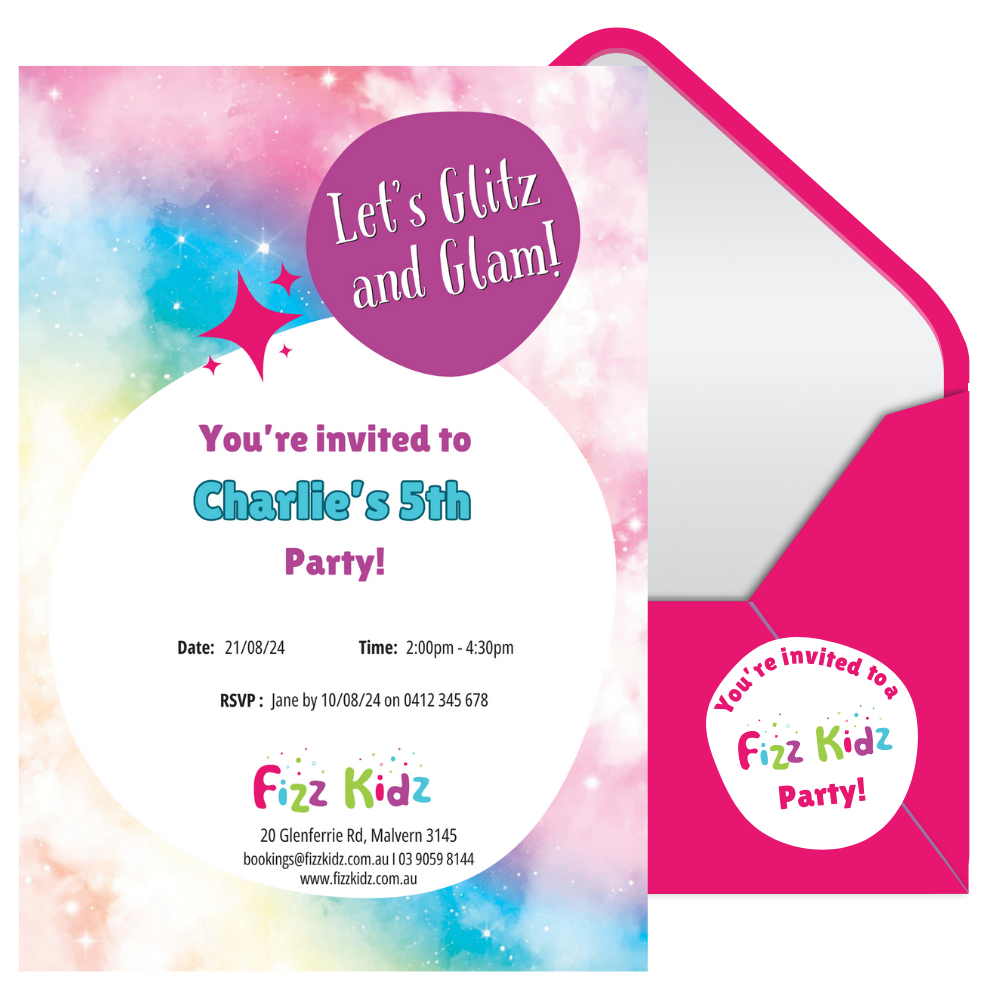
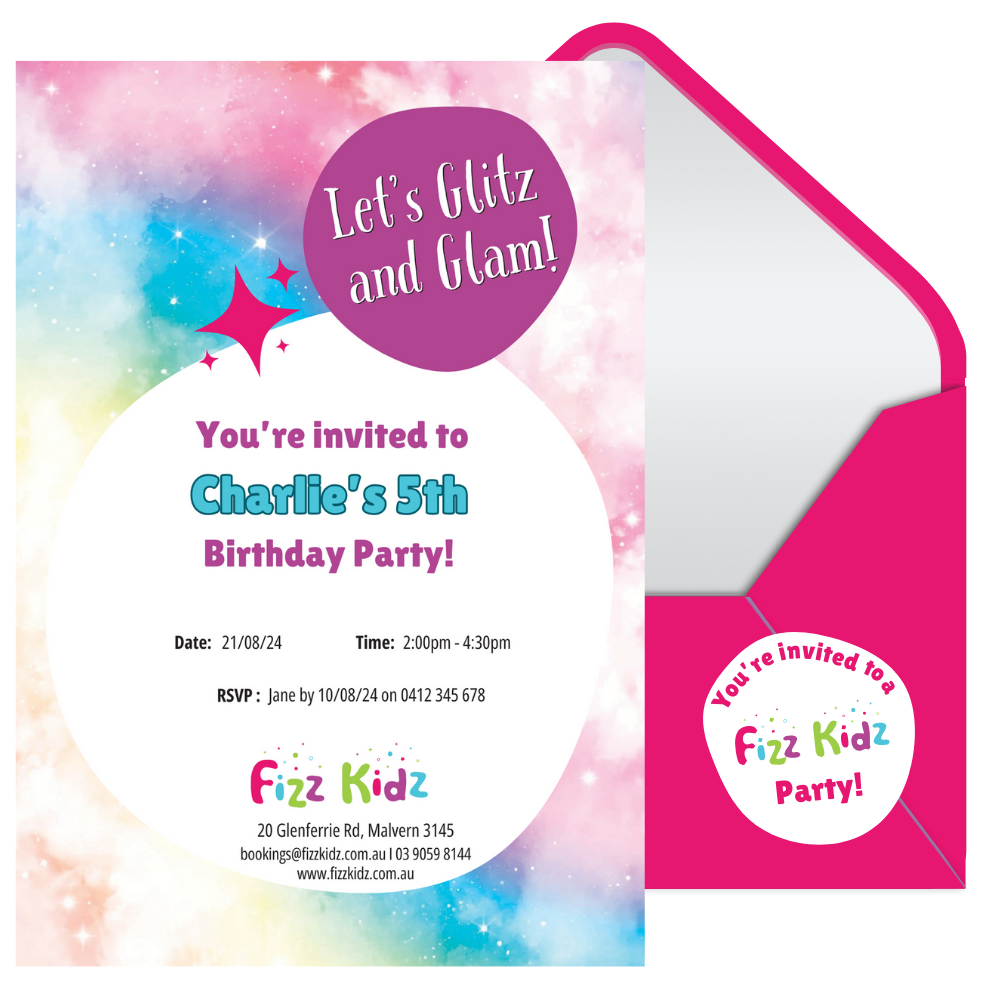
updated glitz invitation

diff --git a/server/src/party-bookings/invitations/freckles.html b/server/src/party-bookings/invitations/freckles.html
@@ -65,15 +65,15 @@
             font-size: 22px;
             position: absolute;
             top: 674px;
-            left: 400px;
+            left: 460px;
         }
 
         .rsvp {
             font-family: "Open Sans Condensed Light";
             position: absolute;
             font-size: 22px;
-            top: 740px;
-            left: 250px;
+            top: 743px;
+            left: 290px;
         }
 
         .address {
@@ -90,7 +90,7 @@
 
 <body>
     <div style="position: relative; width: 100%; height: 100%">
-        <img src="https://imgur.com/Kn21pk8.png" width="100%" height="100%"></img>
+        <img src="https://imgur.com/rB3WKHk.png" width="100%" height="100%"></img>
 
         <div class="childName" style="width:100%">{{ childName }}'s {{childAge}}th</div>
 

diff --git a/server/src/party-bookings/invitations/glitz.html b/server/src/party-bookings/invitations/glitz.html
@@ -72,7 +72,7 @@
             font-family: 'Open Sans Condensed Light';
             position: absolute;
             font-size: 22px;
-            top: 753px;
+            top: 752px;
             left: 312px;
         }
 
@@ -91,7 +91,7 @@
 
 <body>
     <div style="position: relative; width: 100%; height: 100%">
-        <img src="https://imgur.com/MsUQhTc.png" width="100%" height="100%"></img>
+        <img src="https://imgur.com/5wkvFRw.png" width="100%" height="100%"></img>
 
         <div class="childName" style="width:100%">{{ childName }}'s {{childAge}}th</div>
 
